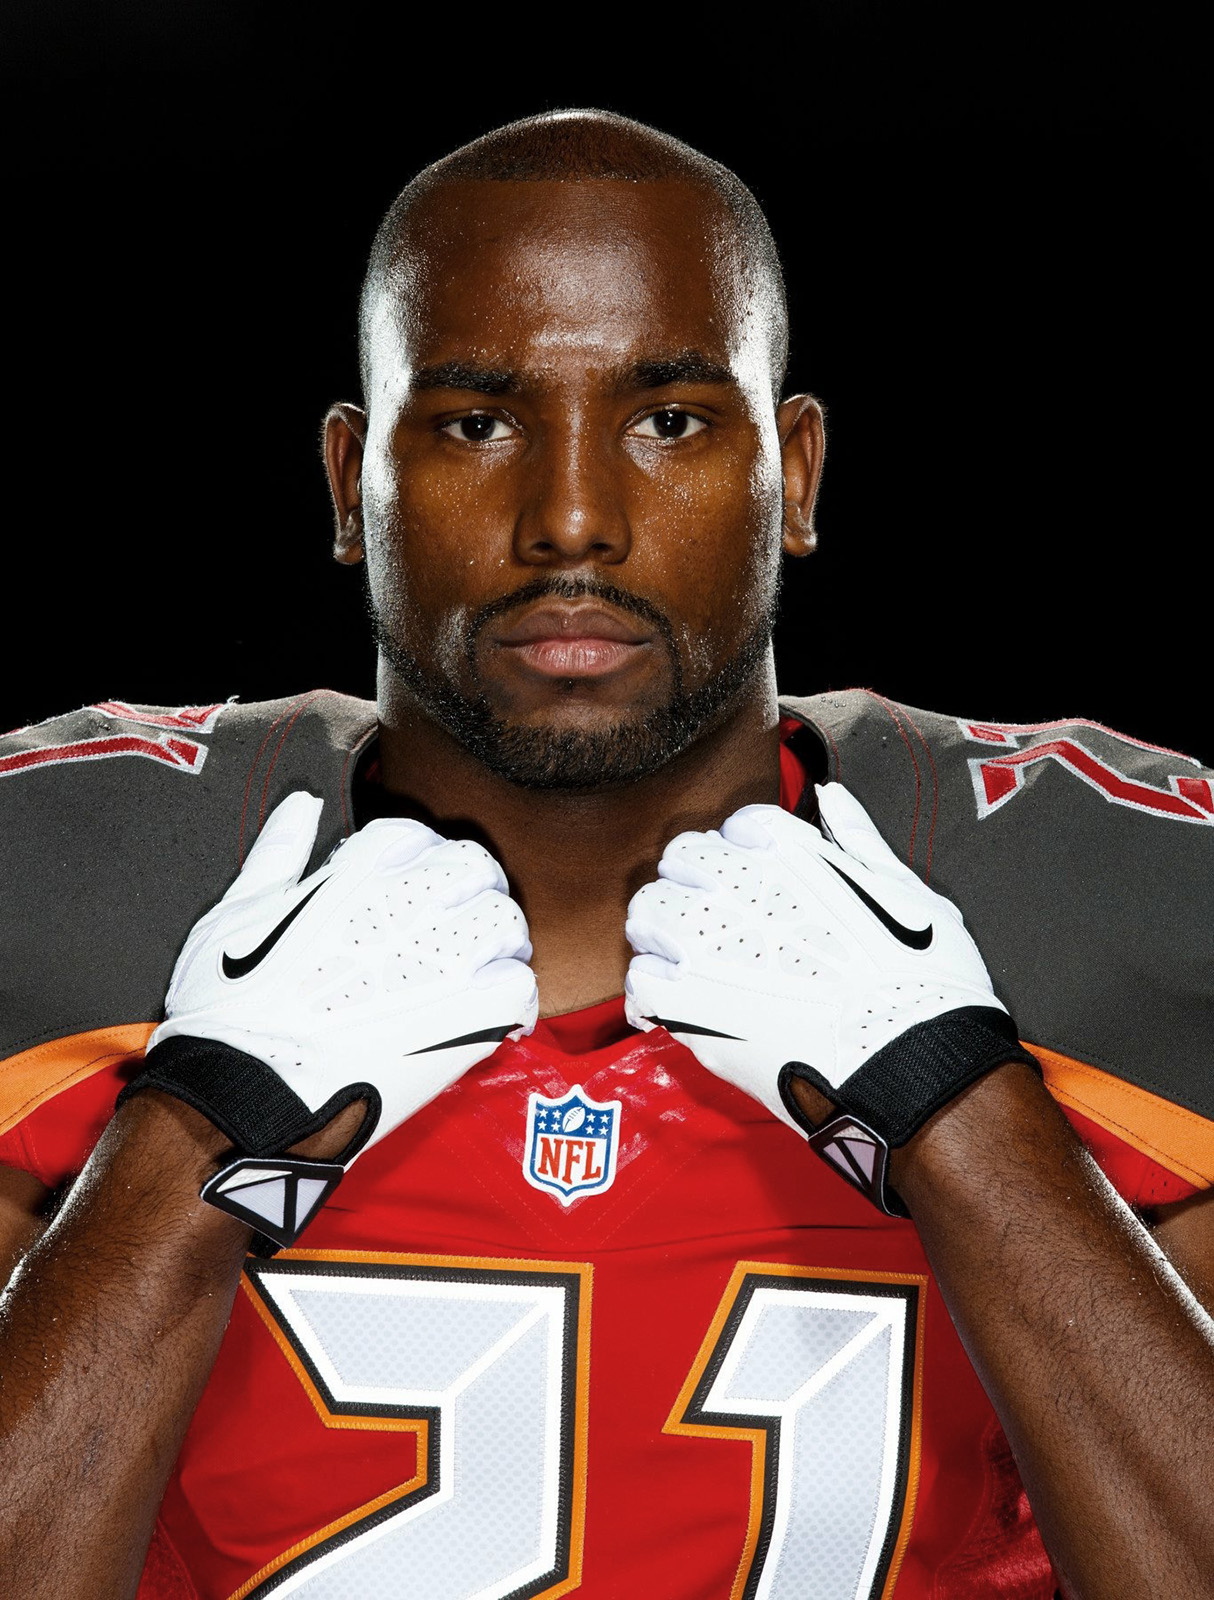
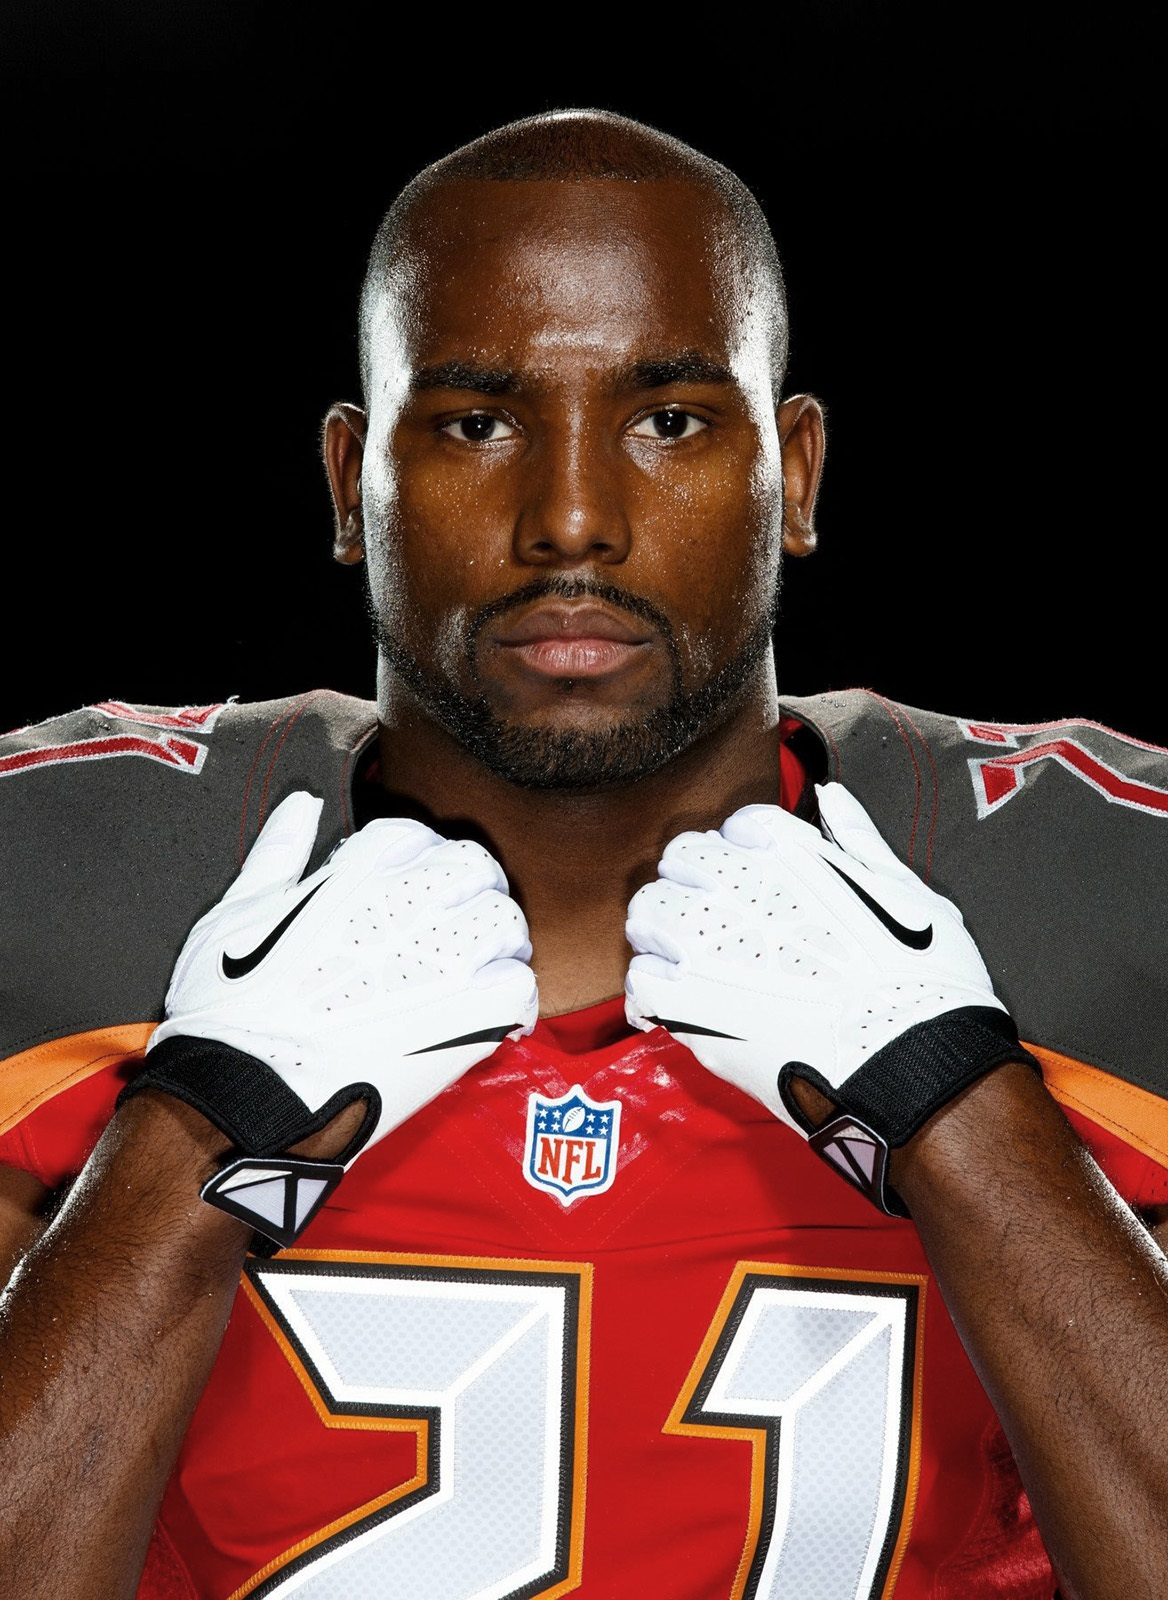
some jumbotron styling

diff --git a/index.html b/index.html
@@ -83,7 +83,7 @@
           <p data-toggle="modal" data-target="#myModal2">
             <img class="image" src="img/volunteering.jpg">
           </p>
-          <p class="caption" id="webpage-caption">UCLA alumnus Alterraun Verner spends much of his time off the field volunteering with Athletes for Charity. (Courtesy of Cathleen Laporte)</p>
+          <p class="caption" id="webpage-caption">Alterraun Verner spends much of his time off the field volunteering with Athletes for Charity. (Courtesy of Cathleen Laporte)</p>
         </div>
         <!-- Modal -->
         <div class="modal" id="myModal2" role="dialog">
@@ -92,7 +92,7 @@
             <div class="modal-content">
               <button type="button" class="close" data-dismiss="modal">&times;</button>
               <img class="modal-image" src="img/volunteering.jpg"/>
-              <span class="caption">UCLA alumnus Alterraun Verner spends much of his time off the field volunteering with Athletes for Charity. (Courtesy of Cathleen Laporte)</span>
+              <span class="caption">Alterraun Verner spends much of his time off the field volunteering with Athletes for Charity. (Courtesy of Cathleen Laporte)</span>
             </div>
           </div>
         </div>

diff --git a/css/style.css b/css/style.css
@@ -8,7 +8,7 @@ html, body {
 }
 .headline {
   color: white;
-  background-color: rgba(0, 0, 0, 0.9);
+  background-color: rgba(255, 0, 0, 0.7);
   text-align: center;
   padding: 10px;
   min-width: 300px;
@@ -22,7 +22,8 @@ html, body {
 .jumbotron {
   background-image: url('../img/footballportrait.jpg');
   background-size: cover;
-  background-position: center;
+  background-position: center top;
+  background-attachment: fixed;
   height: 100%;
   padding: 0px;
 }
